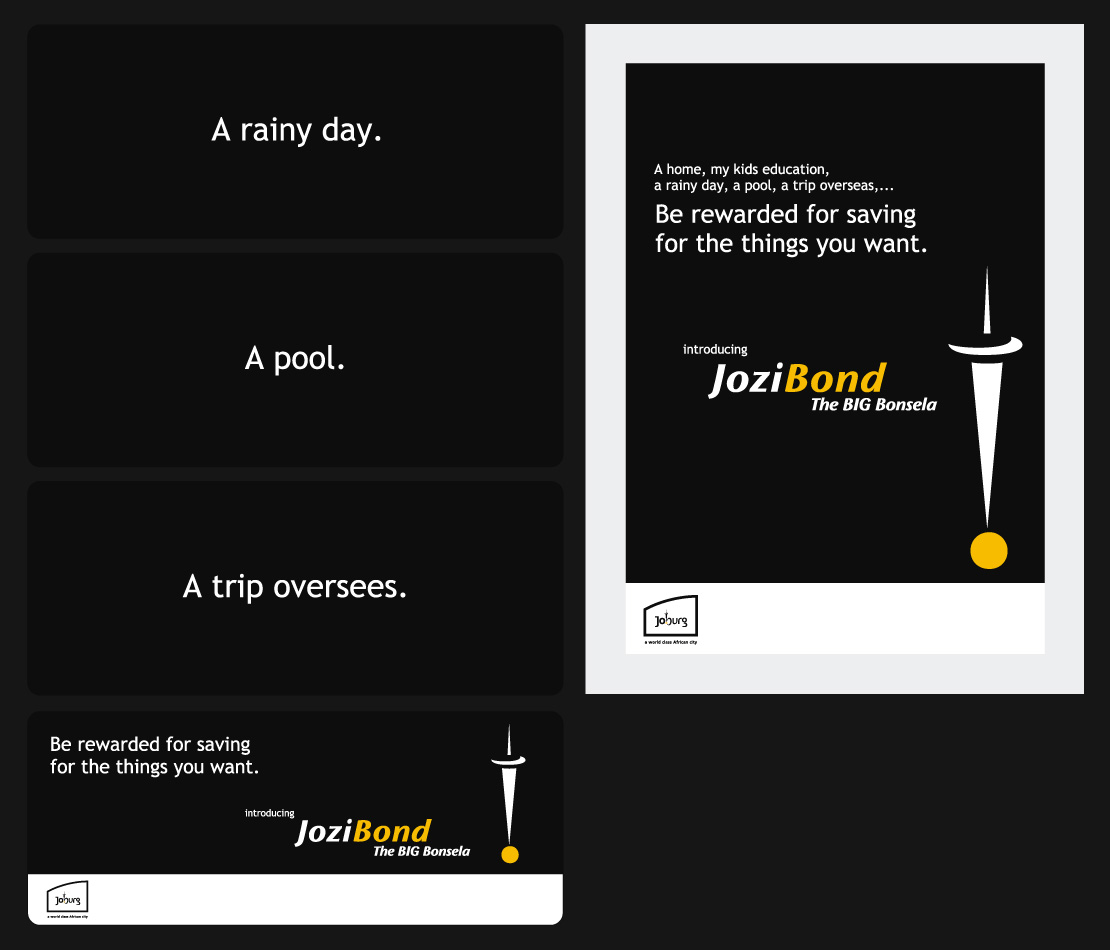
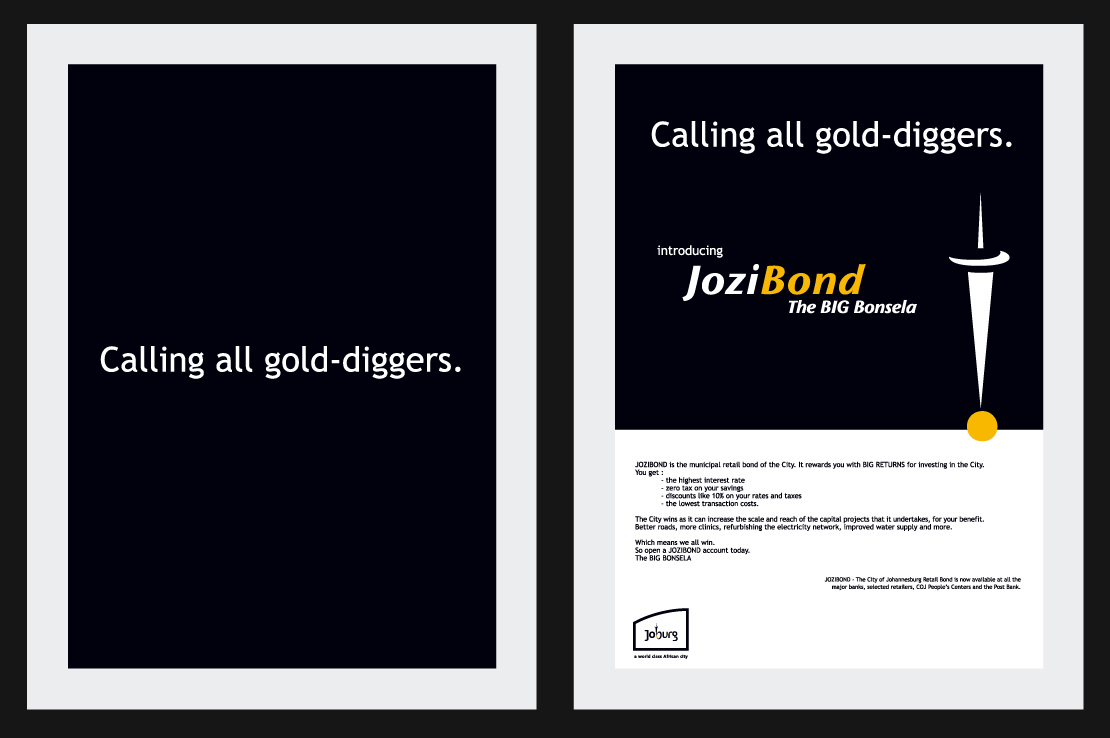
Restore Verifux Spotlight, real legacy artwork, and 26-30M notation
Portfolio: restored the Verifux Spotlight section (with its cursor-tracked
hover gradient) that had been removed in the prior commit, and removed the
now-redundant Verifux tile from Selected Work instead, per instruction to
keep the dedicated section rather than a work-grid card.

Legacy work images swapped for the real source scans from website_old:
JoziBond, GEDA, and Coca-Cola now use the actual project photography
(11_2.jpg, 5_4.jpg, 9_2.jpg) instead of the previously placeholder crops.

Reverted "26 to 30 million" back to "26-30M" notation across SuperSport's
reach figures, per explicit preference for the compact hyphenated range
over the spelled-out form.

diff --git a/components/portfolio/VerifuxSpotlight.tsx b/components/portfolio/VerifuxSpotlight.tsx
@@ -1,0 +1,39 @@
+import { RevealOnScroll } from "@/components/shared/RevealOnScroll";
+import { GradientHoverCard } from "@/components/shared/GradientHoverCard";
+import { spotlight } from "@/lib/content/portfolio";
+
+export function VerifuxSpotlight() {
+  return (
+    <section id="verifux" className="border-b border-line py-32">
+      <div className="mx-auto max-w-container px-5 sm:px-8">
+        <RevealOnScroll y={20}>
+          <GradientHoverCard
+            radius={520}
+            className="verifux-card grid grid-cols-1 gap-10 rounded-lg2 border border-line p-7 sm:p-14 lg:grid-cols-[1.1fr_0.9fr]"
+          >
+            <div>
+              <p className="eyebrow mb-4">{spotlight.eyebrow}</p>
+              <h2 className="text-[clamp(1.9rem,3.4vw,2.7rem)]">{spotlight.heading}</h2>
+              <p className="mt-5 max-w-lg text-ink-muted">{spotlight.body}</p>
+              <div className="mt-6 flex flex-wrap gap-2">
+                {spotlight.tags.map((t) => (
+                  <span key={t} className="rounded-pill border border-line px-4 py-1.5 font-mono text-[0.72rem]">
+                    {t}
+                  </span>
+                ))}
+              </div>
+            </div>
+            <div className="rounded-[14px] border border-line bg-bg p-6 font-mono text-[0.86rem]">
+              {spotlight.panel.map((row) => (
+                <div key={row.label} className="flex items-center justify-between border-b border-line py-3 last:border-b-0">
+                  <span className="text-ink-dim">{row.label}</span>
+                  <span className="text-ink">{row.value}</span>
+                </div>
+              ))}
+            </div>
+          </GradientHoverCard>
+        </RevealOnScroll>
+      </div>
+    </section>
+  );
+}

diff --git a/lib/content/work.ts b/lib/content/work.ts
@@ -36,12 +36,12 @@ export const workItems: WorkItem[] = [
     slug: "supersport",
     title: "SuperSport",
     tag: "Product · UX · 2018 to 2025",
-    summary: "UX strategy and product design across web, mobile and connected TV, reaching 26 to 30 million monthly users.",
+    summary: "UX strategy and product design across web, mobile and connected TV, reaching 26-30 million monthly users.",
     featured: true,
     caseStudy: {
       title: "SuperSport, Case Study, Kishan Rama",
       metaDescription:
-        "UX strategy and product design for SuperSport, reaching 26 to 30 million monthly users across web, mobile and connected TV.",
+        "UX strategy and product design for SuperSport, reaching 26-30 million monthly users across web, mobile and connected TV.",
       eyebrow: "Product · UX · Dec 2018 to Sep 2025",
       headline: "Redesigning discovery and revenue across SuperSport's digital ecosystem.",
       intro:
@@ -50,7 +50,7 @@ export const workItems: WorkItem[] = [
         { label: "Client", value: "SuperSport, MultiChoice Group" },
         { label: "Role", value: "Principal Product Designer & UX Manager" },
         { label: "Duration", value: "6 years 10 months" },
-        { label: "Reach", value: "26 to 30M monthly users" },
+        { label: "Reach", value: "26-30M monthly users" },
       ],
       situation: {
         heading: "The situation",
@@ -72,11 +72,11 @@ export const workItems: WorkItem[] = [
       outcome: {
         heading: "The outcome",
         body: [
-          "The video play page changes drove an average of 26 to 30 million views and impressions per month across web and mobile. The article page changes lifted ad revenue by close to 40%, alongside increased article reads and engagement time.",
+          "The video play page changes drove an average of 26-30 million views and impressions per month across web and mobile. The article page changes lifted ad revenue by close to 40%, alongside increased article reads and engagement time.",
         ],
       },
       proof: [
-        { num: "26 to 30M", label: "Monthly views & impressions" },
+        { num: "26-30M", label: "Monthly views & impressions" },
         { num: "40%", label: "Increase in ad revenue" },
         { num: "50+", label: "African markets served" },
       ],
@@ -387,14 +387,6 @@ export const workItems: WorkItem[] = [
         { num: "3", label: "Core flows (discovery, redemption, history)" },
       ],
     },
-  },
-  {
-    slug: "verifux",
-    title: "Verifux",
-    tag: "Product · AI SaaS",
-    summary: "An AI-powered audit engine covering MX, BX and AIX (54 checkpoints, 9 pillars) with an optional DX craft score. Automates expert-level evaluation into structured, actionable reports.",
-    featured: true,
-    href: "https://www.designerama.co.za/verifux",
   },
 ];
 

diff --git a/app/globals.css b/app/globals.css
@@ -220,6 +220,23 @@ h3 {
     will-change: transform;
   }
 
+  /* Verifux spotlight card: brand-tinted resting gradient + accent radial on hover (cursor-tracked) */
+  .verifux-card {
+    position: relative;
+    background: linear-gradient(135deg, color-mix(in srgb, var(--accent) 8%, var(--paper)), var(--paper) 55%, color-mix(in srgb, var(--accent-deep) 6%, var(--paper)));
+    transition: background 0.35s ease, box-shadow 0.35s ease;
+  }
+  .verifux-card:hover {
+    background: radial-gradient(
+        var(--grad-radius, 520px) circle at var(--mx, 50%) var(--my, 50%),
+        color-mix(in srgb, var(--accent) 22%, transparent),
+        color-mix(in srgb, var(--accent-deep) 8%, transparent) 45%,
+        transparent 72%
+      ),
+      linear-gradient(135deg, color-mix(in srgb, var(--accent) 10%, var(--paper)), var(--paper) 55%, color-mix(in srgb, var(--accent-deep) 8%, var(--paper)));
+    box-shadow: 0 20px 60px -30px color-mix(in srgb, var(--accent) 45%, transparent);
+  }
+
   /* custom cursor: native cursor hidden only while CursorProvider is active */
   html[data-custom-cursor="true"],
   html[data-custom-cursor="true"] * {

diff --git a/lib/content/portfolio.ts b/lib/content/portfolio.ts
@@ -21,7 +21,7 @@ export const trust = {
   logos: ["SuperSport", "DStv / MultiChoice", "FNB", "bidorbuy", "Hollard", "Coca-Cola", "Standard Bank", "Telkom"],
 };
 
-export const marqueeItems = ["UX Strategy", "Product Design", "Verifux", "26 Years", "26 to 30M Users", "Broadcast to Product"];
+export const marqueeItems = ["UX Strategy", "Product Design", "Verifux", "26 Years", "26-30M Users", "Broadcast to Product"];
 
 export const arc = {
   eyebrow: "The arc",
@@ -40,7 +40,7 @@ export const arc = {
     {
       era: "2018 to 2025",
       title: "Principal Product Designer & UX Manager, SuperSport",
-      body: "Directed UX strategy and product design across SuperSport's web, mobile and connected TV ecosystem in 50+ African markets, reaching 26 to 30 million monthly impressions and driving a 40% increase in ad revenue.",
+      body: "Directed UX strategy and product design across SuperSport's web, mobile and connected TV ecosystem in 50+ African markets, reaching 26-30 million monthly impressions and driving a 40% increase in ad revenue.",
     },
     {
       era: "Now",
@@ -79,7 +79,7 @@ export const method = {
 
 export const stats = [
   { num: "26+", label: "Years in design" },
-  { num: "26 to 30M", label: "Monthly users reached, SuperSport" },
+  { num: "26-30M", label: "Monthly users reached, SuperSport" },
   { num: "40%", label: "Ad revenue lift from UX redesign" },
   { num: "CUA", label: "Certified usability analyst" },
 ];

diff --git a/app/portfolio/page.tsx b/app/portfolio/page.tsx
@@ -8,6 +8,7 @@ import { Marquee } from "@/components/portfolio/Marquee";
 import { Arc } from "@/components/portfolio/Arc";
 import { Method } from "@/components/portfolio/Method";
 import { Stats } from "@/components/portfolio/Stats";
+import { VerifuxSpotlight } from "@/components/portfolio/VerifuxSpotlight";
 import { WorkGrid } from "@/components/portfolio/WorkGrid";
 import { LegacyWork } from "@/components/portfolio/LegacyWork";
 import { Philosophy } from "@/components/portfolio/Philosophy";
@@ -17,7 +18,7 @@ import { Footer } from "@/components/portfolio/Footer";
 export const metadata: Metadata = {
   title: "Kishan Rama · Principal Product Designer & UX Strategist",
   description:
-    "Principal Product Designer and UX Strategist. 26 years, 26 to 30 million monthly users reached. Open to senior roles, contract work and consulting.",
+    "Principal Product Designer and UX Strategist. 26 years, 26-30 million monthly users reached. Open to senior roles, contract work and consulting.",
 };
 
 export default function PortfolioPage() {
@@ -32,6 +33,7 @@ export default function PortfolioPage() {
         <Arc />
         <Method />
         <Stats />
+        <VerifuxSpotlight />
         <WorkGrid />
         <LegacyWork />
         <Philosophy />